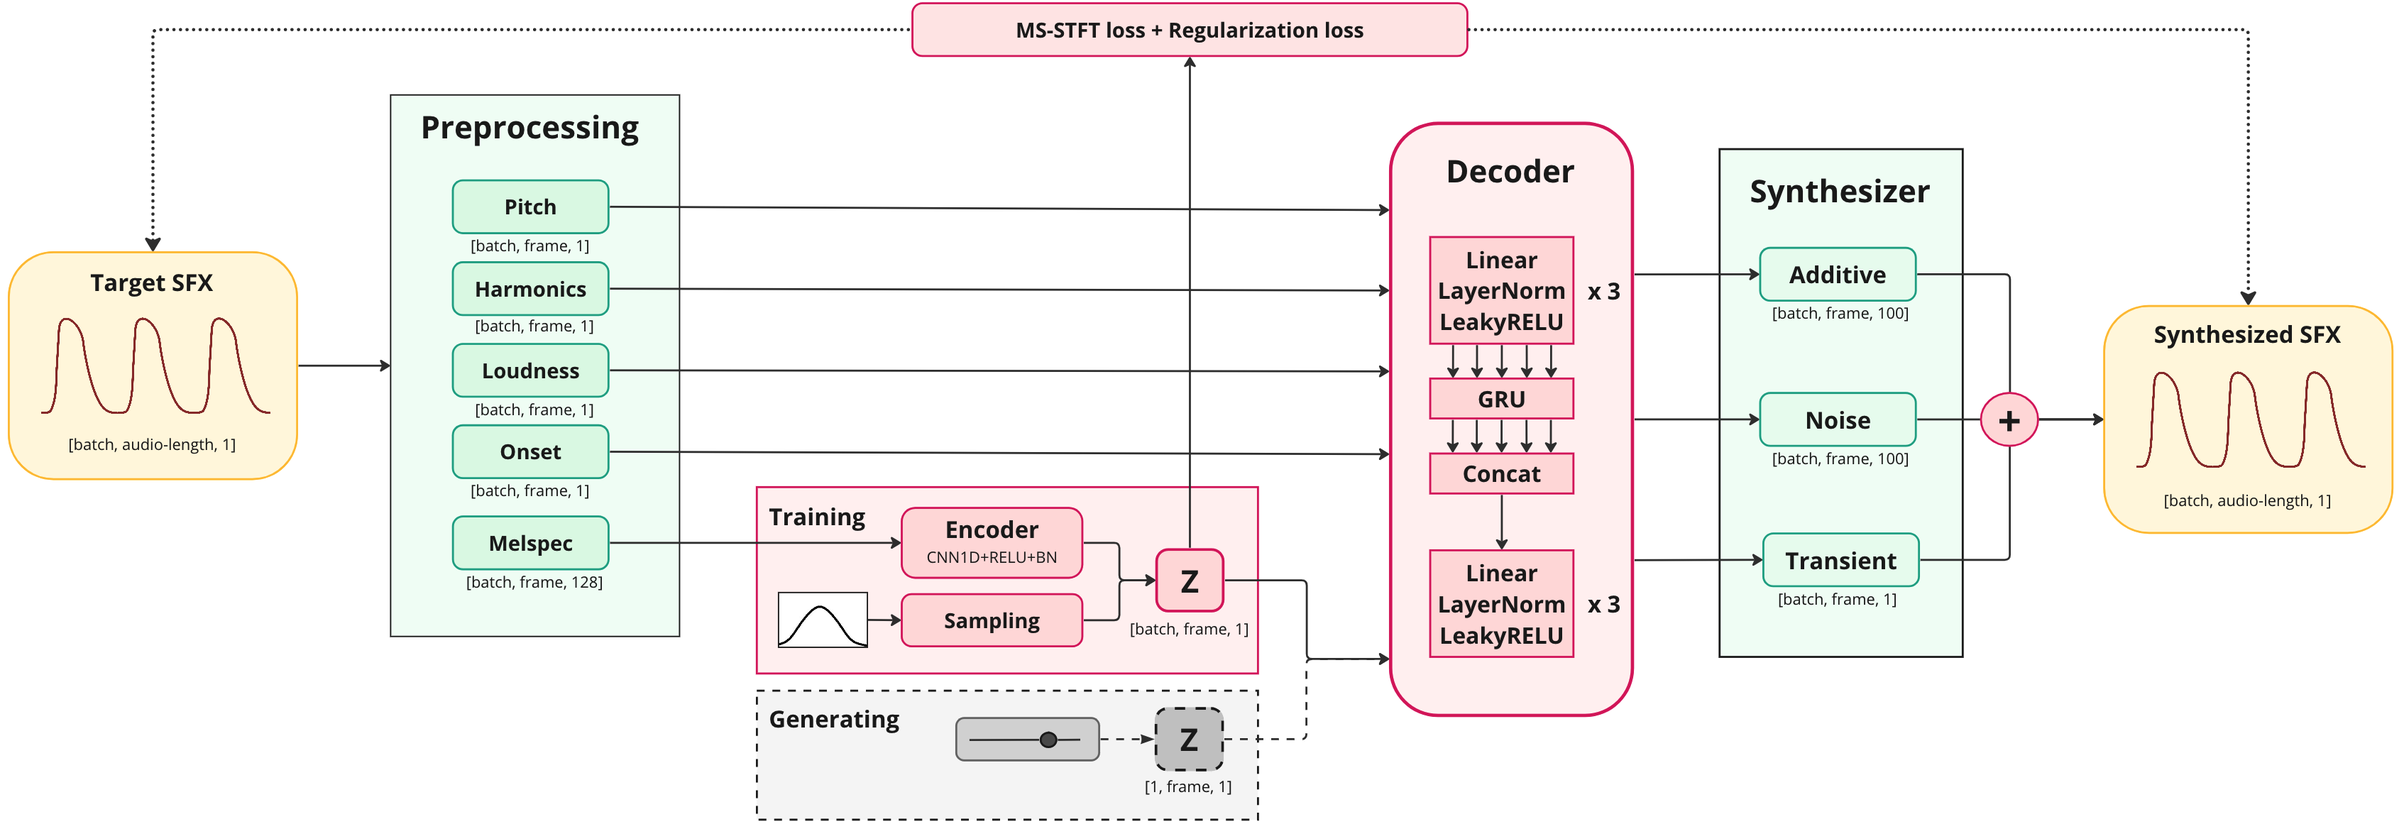
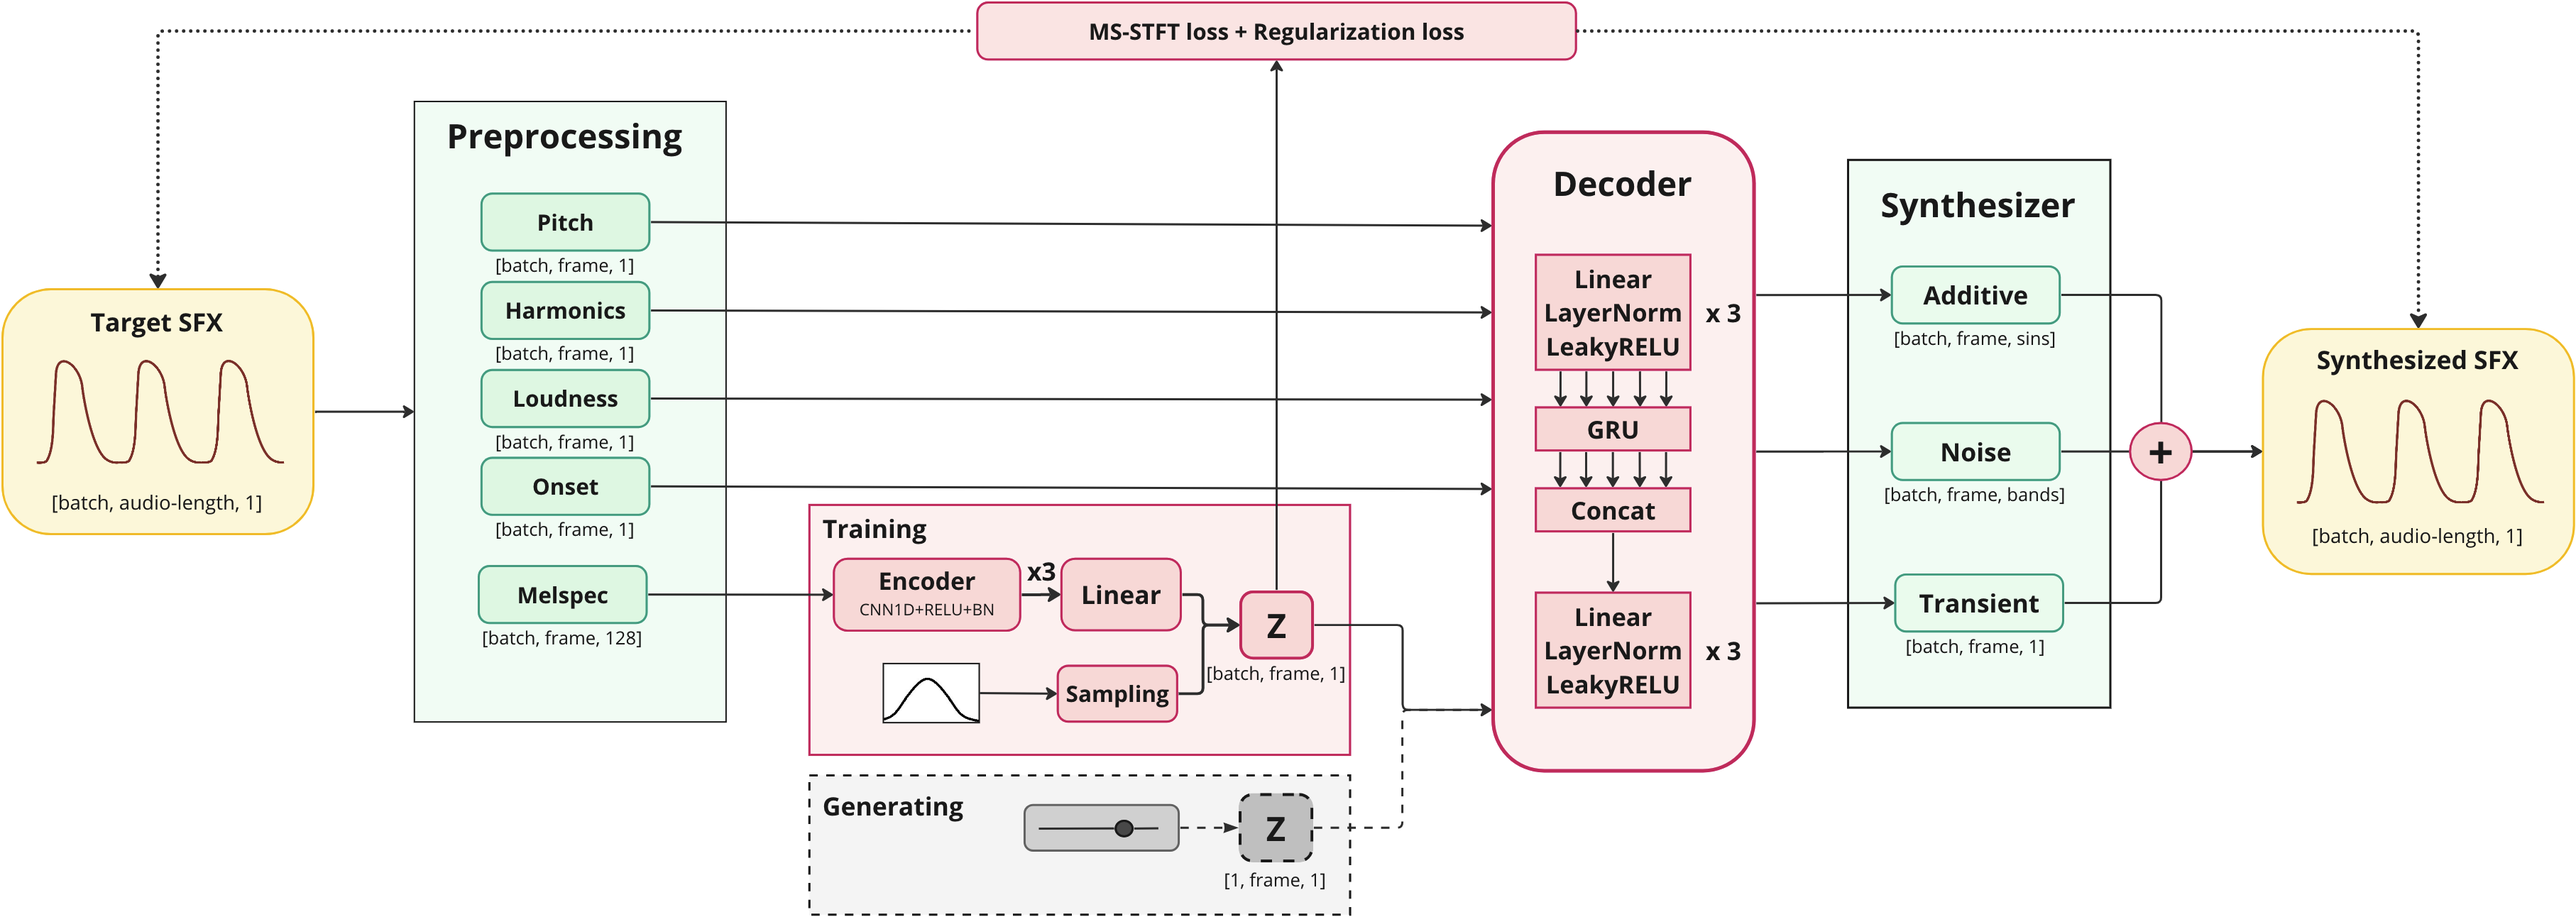
Transient

diff --git a/index.html b/index.html
@@ -51,6 +51,10 @@
 
     <hr>
 
+    <h1 class="section-title">Transient Modelling</h1>
+
+    <figure class="image">
+        <img src="images/Transient model.png" alt="Description 1">
 
     <h1 class="section-title">Synthesis results</h1>
 
@@ -530,7 +534,8 @@
 
     <div class="section">
         <p>
-            It is apparent that our latent vector has time-varying timbre control over the generated sounds. When changing it
+            From the spectrogram we could see a clear difference when we variate the value of z from a time frame. 
+            This shows that our latent vector is able to achieve time-varying timbre control over the generated sounds. When changing it
             from a certain time frame, it changes its spectral characteristics immediately without creating any distorted glitch 
             in the joint areas. 
         </p>
